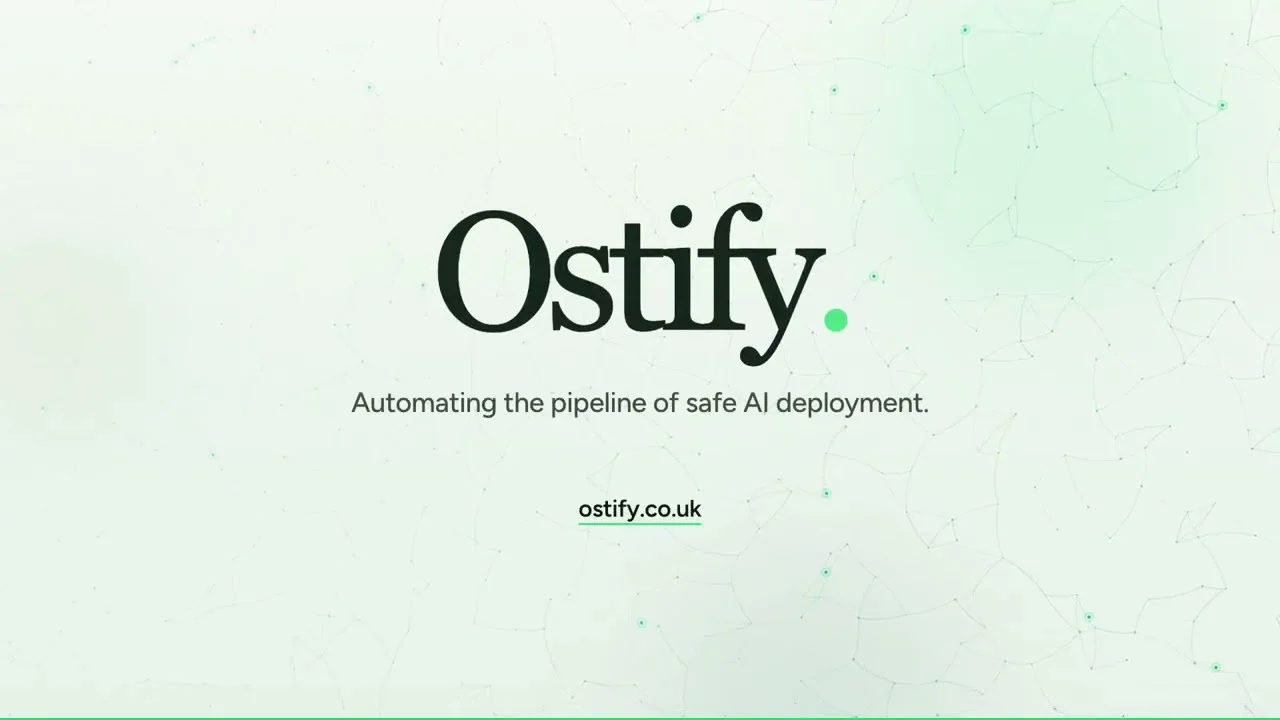
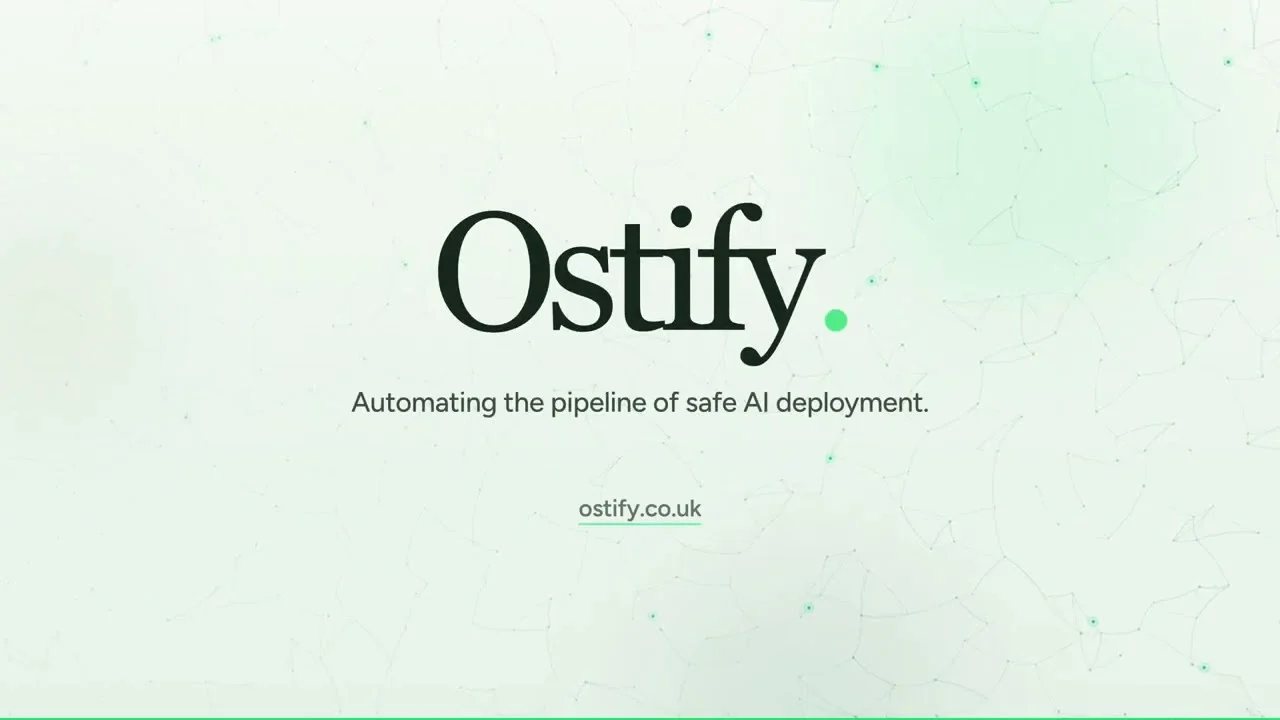
Home page video: point to the new upload and refresh the poster

diff --git a/index.html b/index.html
@@ -43,7 +43,7 @@
 <link rel="icon" href="/favicon.ico" sizes="any">
 <link rel="icon" href="/favicon-512.png" type="image/png" sizes="512x512">
 <link rel="apple-touch-icon" href="/favicon-180.png">
-<link rel="stylesheet" href="/site.css?v=20261005c">
+<link rel="stylesheet" href="/site.css?v=20261005d">
 </head>
 <body class="home">
 <a class="skip-link" href="#main">Skip to content</a>
@@ -125,8 +125,8 @@
         <p class="xs-lede">The same tools, from first upload to a tested agent. No code, and nothing reaches a patient until it has been reviewed.</p>
       </div>
     </header>
-    <figure class="xvid" data-video="Yw9f-EVdGtI">
-      <a class="xvid-play" href="https://youtu.be/Yw9f-EVdGtI" target="_blank" rel="noopener" aria-describedby="xvid-note"><img src="/images/video/intro-poster.webp" alt="" width="1280" height="720" loading="lazy" decoding="async"><span class="xvid-btn"><svg viewBox="0 0 24 24" aria-hidden="true"><path d="M8 5.5v13l11-6.5z" fill="currentColor"/></svg>Watch the video</span></a>
+    <figure class="xvid" data-video="N9FJXK8YhtY">
+      <a class="xvid-play" href="https://youtu.be/N9FJXK8YhtY" target="_blank" rel="noopener" aria-describedby="xvid-note"><img src="/images/video/intro-poster.webp?v=2" alt="" width="1280" height="720" loading="lazy" decoding="async"><span class="xvid-btn"><svg viewBox="0 0 24 24" aria-hidden="true"><path d="M8 5.5v13l11-6.5z" fill="currentColor"/></svg>Watch the video</span></a>
       <figcaption id="xvid-note">The video plays from YouTube, which may set cookies once you press play. <a href="/privacy/#cookies">Read our cookie policy</a>.</figcaption>
     </figure>
     <div class="xsh-tabs" role="tablist" aria-label="Product screens"><button type="button" role="tab" id="xsh-tab-build" aria-controls="xsh-build" aria-selected="true"><span>1</span>Build</button><button type="button" role="tab" id="xsh-tab-shape" aria-controls="xsh-shape" aria-selected="false" tabindex="-1"><span>2</span>Shape</button><button type="button" role="tab" id="xsh-tab-test" aria-controls="xsh-test" aria-selected="false" tabindex="-1"><span>3</span>Test</button></div>
@@ -364,7 +364,7 @@
 <script src="/analytics.js?v=20261005a"></script>
 <script src="/consent.js?v=20261005a"></script>
 <script src="/nav.js?v=20261004v"></script>
-<script src="/site-x.js?v=20261005c"></script>
+<script src="/site-x.js?v=20261005d"></script>
 <script src="/effects.js?v=20261004v"></script>
 </body>
 </html>

diff --git a/site-x.js b/site-x.js
@@ -30,7 +30,7 @@ document.querySelectorAll('[data-video]').forEach(function (fig) {
     e.preventDefault();
     var frame = document.createElement('iframe');
     frame.src = 'https://www.youtube-nocookie.com/embed/' + fig.dataset.video + '?autoplay=1&rel=0&vq=hd1080';
-    frame.title = 'Osteoblast by Ostify';
+    frame.title = 'Build your own healthcare AI agent | Ostify';
     frame.allow = 'autoplay; encrypted-media; picture-in-picture; fullscreen';
     frame.allowFullscreen = true;
     frame.referrerPolicy = 'strict-origin-when-cross-origin';
